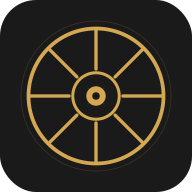
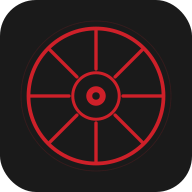
Brand accent: gold -> fire engine red (#d4a853 -> #ce2029)
Swaps the Centerpost brand accent across the web app. All 221 var(--accent)
consumers follow the token, so this is mostly a four-line token change plus
the literals that had drifted out of the variable.

  src/app.css   :root accent/dim/glow -> #ce2029 / #a01820 / rgba(206,32,41,.15)
                light theme accent/dim/glow -> #a8121a / #7a0e14 / rgba(168,18,26,.12)
                .theme-tier-premium + 4 hardcoded rgba(212,168,83,x) accent tints
  legacy.js     THEMES dark + light swatch hexes (drive the theme-picker preview)
  index.html    theme-color meta
  *.svg         centerpost-icon + centerpost-branding

The 15 PNG icons were recolored in place rather than re-rendered: each pixel is
gold composited over a neutral dark, so solving for coverage and recompositing
with red preserves the exact geometry and anti-aliasing. No rasteriser needed
and no art drift. kids-icon* are a blue/yellow star with no gold mark and are
untouched.

Deliberately left gold (Joe's call):
  - .day-progress-bar gradient  -- a sunrise/midday/sunset ramp, a sun metaphor
                                   rather than brand chrome
  - the energy chart series (legacy.js x5) and its two JSX legend dots, which
    must stay matched to each other; red there would also collide with --red
  - the Pro tier badge colour
  - public/ops.html, which has its own unrelated gold tokens

Native (iOS/watch) still carries the gold mark and needs its own ship.

diff --git a/src/app.css b/src/app.css
@@ -2,7 +2,7 @@
    TypeScaleBridge maps the iOS text-size setting onto it (via
    window.__setTypeScale in legacy.js) and every font-size in this file is
    calc(Npx * var(--type-scale,1)). Keep new font-size rules in that form. */
-:root{--type-scale:1;--bg:#1a1917;--surface:#242320;--surface-raised:#2e2d29;--surface-hover:#38362f;--border:#3d3b33;--border-focus:#6b6554;--text:#e8e2d6;--text-dim:#a09882;--text-faint:#6b6554;--accent:#d4a853;--accent-dim:#b08a3a;--accent-glow:rgba(212,168,83,0.15);--red:#c75f5f;--red-dim:rgba(199,95,95,0.15);--green:#6bab73;--green-dim:rgba(107,171,115,0.15);--blue:#5f8fc7;--blue-dim:rgba(95,143,199,0.15);--purple:#9b7ec7;--purple-dim:rgba(155,126,199,0.15);--orange:#c7925f;--orange-dim:rgba(199,146,95,0.15);--teal:#5fafb0;--teal-dim:rgba(95,175,176,0.15);--radius:10px;--radius-sm:6px;}
+:root{--type-scale:1;--bg:#1a1917;--surface:#242320;--surface-raised:#2e2d29;--surface-hover:#38362f;--border:#3d3b33;--border-focus:#6b6554;--text:#e8e2d6;--text-dim:#a09882;--text-faint:#6b6554;--accent:#ce2029;--accent-dim:#a01820;--accent-glow:rgba(206,32,41,0.15);--red:#c75f5f;--red-dim:rgba(199,95,95,0.15);--green:#6bab73;--green-dim:rgba(107,171,115,0.15);--blue:#5f8fc7;--blue-dim:rgba(95,143,199,0.15);--purple:#9b7ec7;--purple-dim:rgba(155,126,199,0.15);--orange:#c7925f;--orange-dim:rgba(199,146,95,0.15);--teal:#5fafb0;--teal-dim:rgba(95,175,176,0.15);--radius:10px;--radius-sm:6px;}
 
 
 /* R9: visually-hidden but screen-reader-readable content (PIN-dot progress
@@ -11,7 +11,7 @@
 .sr-only{position:absolute;width:1px;height:1px;padding:0;margin:-1px;overflow:hidden;clip:rect(0,0,0,0);white-space:nowrap;border:0;}
 
 /* ═══ THEME CSS ═══ */
-body[data-theme="light"]{--bg:#f6f4f0;--surface:#ffffff;--surface-raised:#f0ede6;--surface-hover:#e8e4dc;--border:#d8d4ca;--border-focus:#b0aa9a;--text:#2a2822;--text-dim:#6a6558;--text-faint:#9a9488;--accent:#b08830;--accent-dim:#8a6a20;--accent-glow:rgba(176,136,48,0.12);}
+body[data-theme="light"]{--bg:#f6f4f0;--surface:#ffffff;--surface-raised:#f0ede6;--surface-hover:#e8e4dc;--border:#d8d4ca;--border-focus:#b0aa9a;--text:#2a2822;--text-dim:#6a6558;--text-faint:#9a9488;--accent:#a8121a;--accent-dim:#7a0e14;--accent-glow:rgba(168,18,26,0.12);}
 body[data-theme="light"] .header-center-title{color:#2a2822;text-shadow:0 1px 3px rgba(255,255,255,0.6);}
 /* Starry text/label palette moved violet -> darker blue (Joe's call,
    2026-07-31): --text/--text-dim/--text-faint and the accent trio carry the
@@ -534,7 +534,7 @@ body[data-theme="autumn"] .header-center-title{color:#3a2a18;text-shadow:0 1px 3
 .theme-tier-pro{background:rgba(91,143,232,0.15);color:#5b8ce8;}
 .theme-tier-premium{background:rgba(124,58,237,0.15);color:#7c3aed;}
 .theme-tier-legacy{background:rgba(5,150,105,0.15);color:#059669;}
-.theme-tier-premium{background:rgba(212,168,83,0.15);color:#d4a853;}
+.theme-tier-premium{background:rgba(206,32,41,0.15);color:#ce2029;}
 @media(max-width:480px){.theme-selector{gap:6px;}.theme-btn{padding:8px 4px 6px;}.theme-btn-name{font-size:calc(9px * var(--type-scale,1));}}
 
 *{margin:0;padding:0;box-sizing:border-box;}
@@ -1043,7 +1043,7 @@ body.capacitor-native a[target="_blank"]{-webkit-touch-callout:none;}
 .panel.panel-tile .panel-header .expand-btn .expand-arrow{transform:rotate(-90deg);}
 .panel.panel-tile .panel-tile-summary{display:flex;align-items:center;gap:6px;padding:6px 0 2px;font-size:calc(13px * var(--type-scale,1));color:var(--text-dim);border-bottom:1px dashed var(--border);margin-bottom:6px;flex-wrap:wrap;}
 .panel.panel-tile .panel-tile-summary-pill{display:inline-flex;align-items:center;gap:4px;padding:3px 10px;background:var(--surface-raised);border-radius:6px;font-size:calc(13px * var(--type-scale,1));font-weight:500;}
-.panel.panel-tile .panel-tile-summary-pill.warn{color:var(--accent);background:rgba(212,168,83,0.12);}
+.panel.panel-tile .panel-tile-summary-pill.warn{color:var(--accent);background:rgba(206,32,41,0.12);}
 .panel.panel-tile .panel-tile-summary-pill.urgent{color:var(--red);font-weight:700;background:rgba(229,57,53,0.12);}
 
 /* ─── INLINE list panels: tasks + projects always show their content ─── */
@@ -1123,9 +1123,9 @@ body.capacitor-native a[target="_blank"]{-webkit-touch-callout:none;}
 .bdo-dest-tag.note{background:rgba(95,143,199,0.15);color:var(--blue);}
 .bdo-dest-tag.project{background:rgba(107,171,115,0.15);color:var(--green);}
 .bdo-dest-tag.reminder{background:rgba(155,126,199,0.15);color:var(--purple);}
-.bdo-dest-tag.newproj{background:rgba(212,168,83,0.18);color:var(--accent);border:1px dashed var(--accent-dim);}
+.bdo-dest-tag.newproj{background:rgba(206,32,41,0.18);color:var(--accent);border:1px dashed var(--accent-dim);}
 .bdo-dest-select{font-size:calc(11px * var(--type-scale,1));padding:2px 6px;background:var(--surface);border:1px solid var(--border);border-radius:6px;color:var(--text);max-width:170px;}
-.bdo-question{background:rgba(212,168,83,0.08);border:1px solid var(--accent-dim);border-radius:var(--radius-sm);padding:12px 14px;margin-bottom:10px;}
+.bdo-question{background:rgba(206,32,41,0.08);border:1px solid var(--accent-dim);border-radius:var(--radius-sm);padding:12px 14px;margin-bottom:10px;}
 .bdo-question-text{font-size:calc(12px * var(--type-scale,1));color:var(--text);margin-bottom:8px;display:flex;align-items:flex-start;gap:7px;}
 .bdo-question-text .ti{color:var(--accent);font-size:calc(15px * var(--type-scale,1));flex-shrink:0;margin-top:1px;}
 .bdo-question-opts{display:flex;gap:6px;flex-wrap:wrap;}
@@ -1219,7 +1219,7 @@ body.capacitor-native a[target="_blank"]{-webkit-touch-callout:none;}
 }
 @keyframes fadeUp{from{opacity:0;transform:translateY(10px)}to{opacity:1;transform:translateY(0)}}
 .panel.dragging{opacity:0.4;transform:scale(0.97);}
-.panel.drag-over{box-shadow:0 0 0 2px var(--accent),0 4px 20px rgba(212,168,83,0.25);transform:scale(1.01);}
+.panel.drag-over{box-shadow:0 0 0 2px var(--accent),0 4px 20px rgba(206,32,41,0.25);transform:scale(1.01);}
 .panel.hidden-panel{display:none;}
 .panel.user-hidden{display:none!important;}
 .panel-header{display:flex;align-items:center;justify-content:space-between;margin-bottom:14px;}

diff --git a/public/legacy.js b/public/legacy.js
@@ -12143,8 +12143,8 @@ setInterval(function(){
 // THEME SYSTEM
 // =======================================
 var THEMES=[
-  {key:'dark',name:'Dark',tier:'free',bg:'#1a1917',surface:'#242320',accent:'#d4a853'},
-  {key:'light',name:'Light',tier:'free',bg:'#f6f4f0',surface:'#ffffff',accent:'#b08830'},
+  {key:'dark',name:'Dark',tier:'free',bg:'#1a1917',surface:'#242320',accent:'#ce2029'},
+  {key:'light',name:'Light',tier:'free',bg:'#f6f4f0',surface:'#ffffff',accent:'#a8121a'},
   {key:'starry',name:'Starry Night',tier:'pro',bg:'#0a0e1a',surface:'#10152a',accent:'#7b68ee'},
   {key:'sunny',name:'Sunny Sky',tier:'pro',bg:'#e8f0fa',surface:'#ffffff',accent:'#e07828'},
   {key:'ocean',name:'Midnight Ocean',tier:'pro',bg:'#0a1a1a',surface:'#0f2222',accent:'#20c9a6'},

diff --git a/index.html b/index.html
@@ -6,7 +6,7 @@
 <meta name="apple-mobile-web-app-capable" content="yes">
 <meta name="apple-mobile-web-app-status-bar-style" content="black-translucent">
 <meta name="apple-mobile-web-app-title" content="Centerpost">
-<meta name="theme-color" content="#d4a853">
+<meta name="theme-color" content="#ce2029">
 <link rel="manifest" href="manifest.json">
 <link rel="icon" type="image/svg+xml" href="/centerpost-icon.svg">
 <link rel="icon" type="image/png" sizes="32x32" href="/favicon-32.png">
